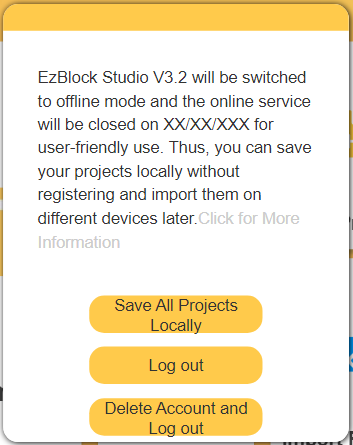
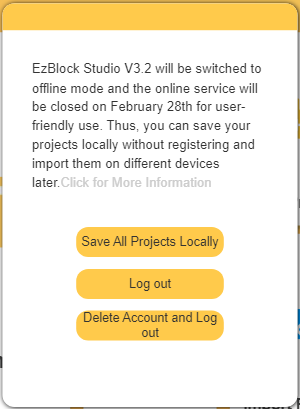
fix date

diff --git a/docs/source/quick_guide_3.2/transfer_project.rst b/docs/source/quick_guide_3.2/transfer_project.rst
@@ -3,7 +3,7 @@ Save Your Project in time (For Old Users)
 
 
 .. note::
-    On March 1, 2023, all accounts and items stored in your account will be cleared and can not be retrieved. Sorry for the inconvenience caused.
+    On February 28, 2023, all accounts and items stored in your account will be cleared and can not be retrieved. Sorry for the inconvenience caused.
 
 When you log into your account, you will see a pop-up prompt.
 
